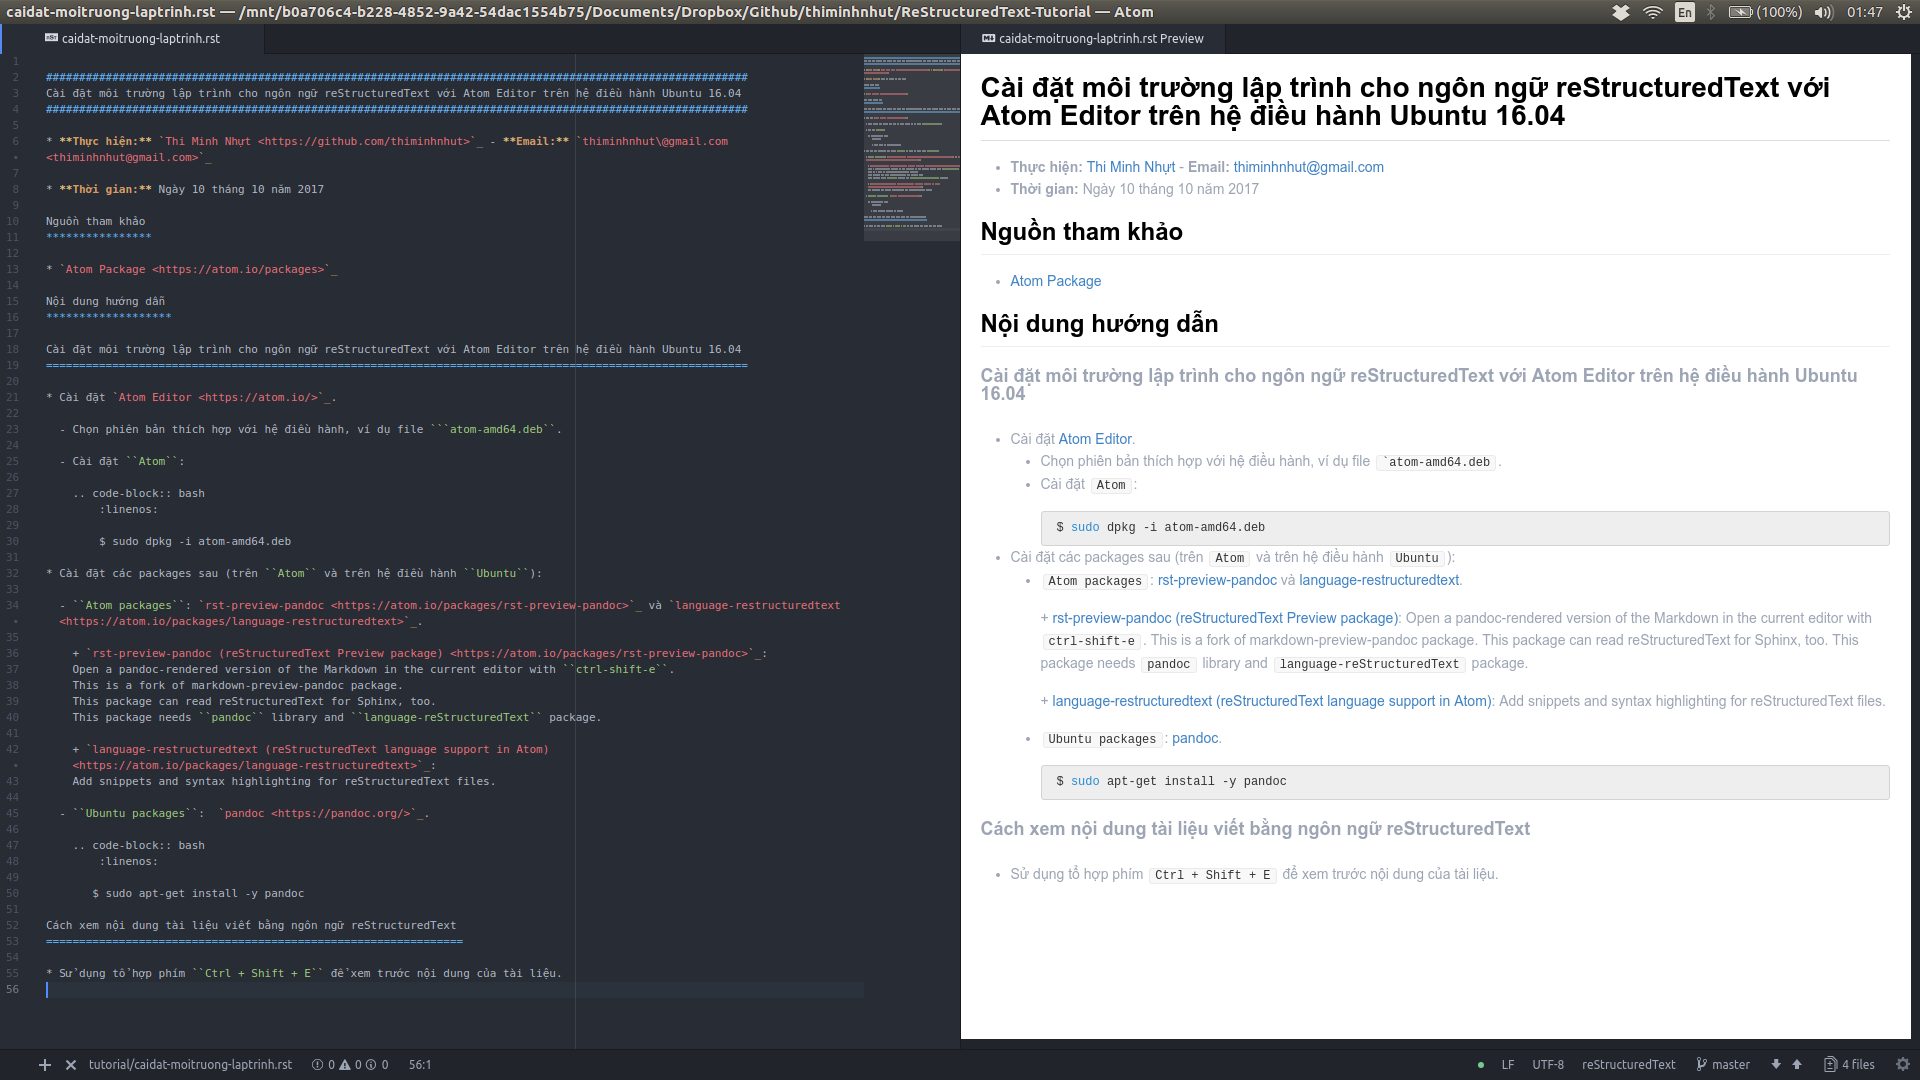
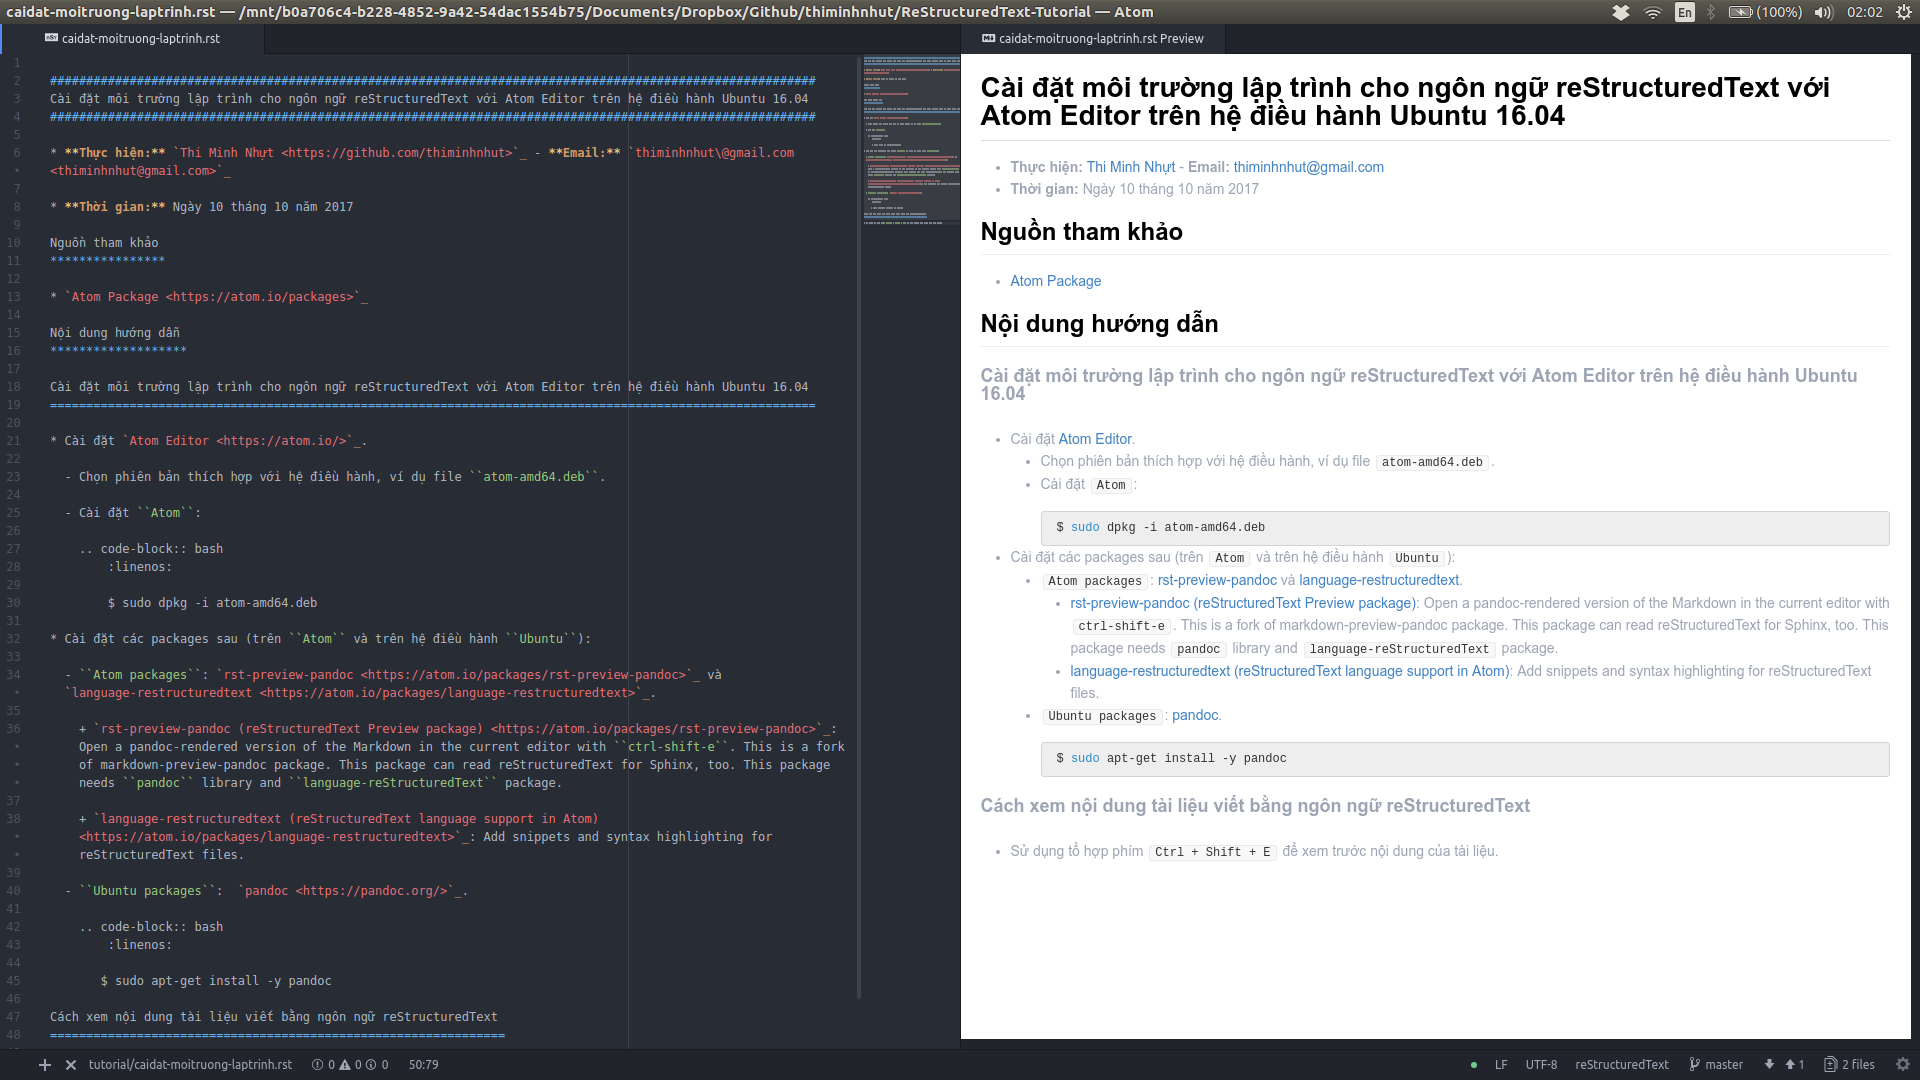
Format matching Github Enter xuong dong trong doan van hien thi khong tot tren Github

diff --git a/tutorial/caidat-moitruong-laptrinh.rst b/tutorial/caidat-moitruong-laptrinh.rst
@@ -20,7 +20,7 @@ Cài đặt môi trường lập trình cho ngôn ngữ reStructuredText với A
 
 * Cài đặt `Atom Editor <https://atom.io/>`_.
 
-  - Chọn phiên bản thích hợp với hệ điều hành, ví dụ file ```atom-amd64.deb``.
+  - Chọn phiên bản thích hợp với hệ điều hành, ví dụ file ``atom-amd64.deb``.
 
   - Cài đặt ``Atom``:
 
@@ -33,14 +33,9 @@ Cài đặt môi trường lập trình cho ngôn ngữ reStructuredText với A
 
   - ``Atom packages``: `rst-preview-pandoc <https://atom.io/packages/rst-preview-pandoc>`_ và `language-restructuredtext <https://atom.io/packages/language-restructuredtext>`_.
 
-    + `rst-preview-pandoc (reStructuredText Preview package) <https://atom.io/packages/rst-preview-pandoc>`_:
-    Open a pandoc-rendered version of the Markdown in the current editor with ``ctrl-shift-e``.
-    This is a fork of markdown-preview-pandoc package.
-    This package can read reStructuredText for Sphinx, too.
-    This package needs ``pandoc`` library and ``language-reStructuredText`` package.
+    + `rst-preview-pandoc (reStructuredText Preview package) <https://atom.io/packages/rst-preview-pandoc>`_: Open a pandoc-rendered version of the Markdown in the current editor with ``ctrl-shift-e``. This is a fork of markdown-preview-pandoc package. This package can read reStructuredText for Sphinx, too. This package needs ``pandoc`` library and ``language-reStructuredText`` package.
 
-    + `language-restructuredtext (reStructuredText language support in Atom) <https://atom.io/packages/language-restructuredtext>`_:
-    Add snippets and syntax highlighting for reStructuredText files.
+    + `language-restructuredtext (reStructuredText language support in Atom) <https://atom.io/packages/language-restructuredtext>`_: Add snippets and syntax highlighting for reStructuredText files.
 
   - ``Ubuntu packages``:  `pandoc <https://pandoc.org/>`_.
 
